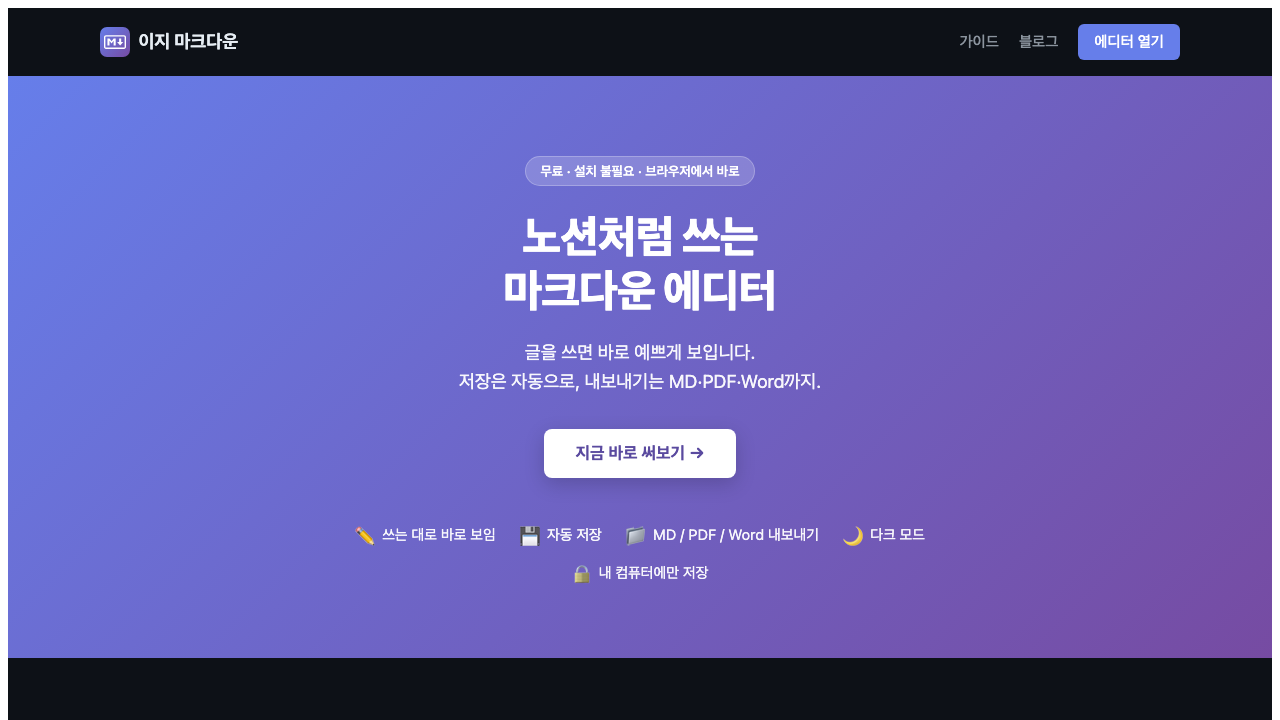
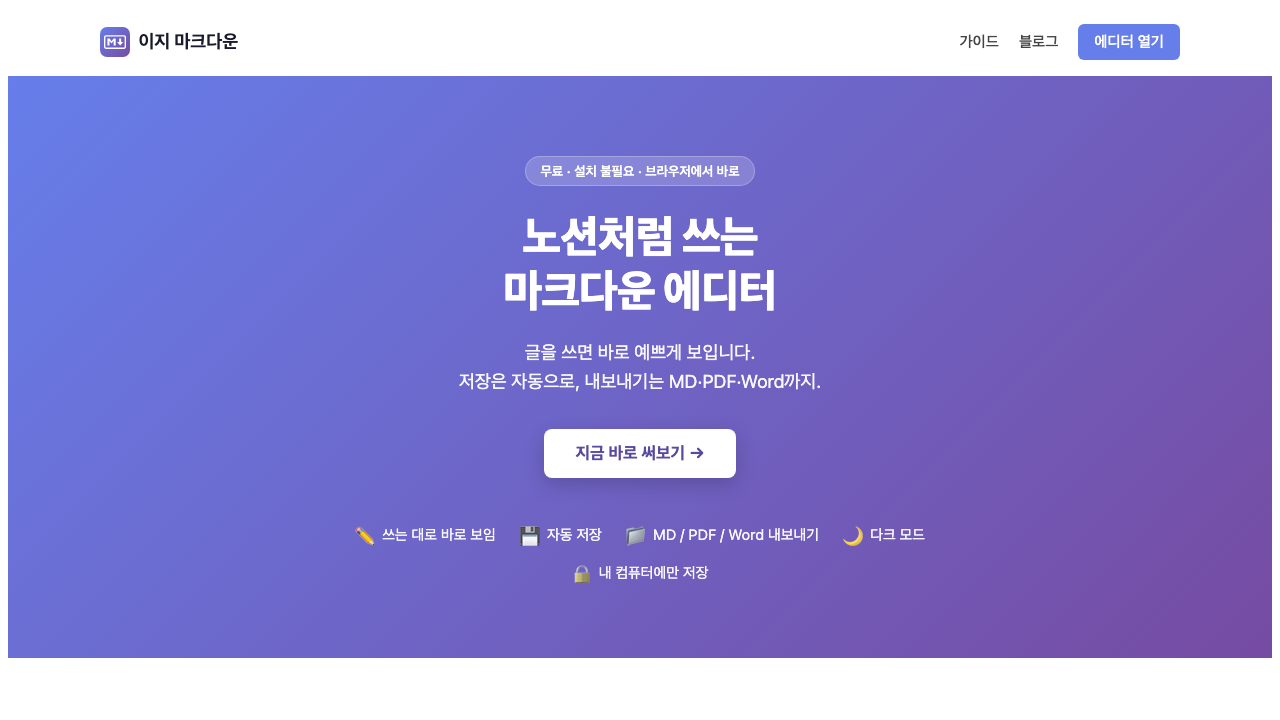
content+assets: real project images, live services, refined About
- Add real screenshots for autotube, ai-saju, stock-terminal; normalize
  filenames to slugs (market-spot->stock-terminal, rabbit-hole jpg->png);
  re-capture icony/easymd in light mode
- automatone and Rabbit Hole are live now: mark live + real URLs
  (automatone.win, rabbit-hole-games.com); unify automatone's copy voice
- Rewrite About into a connected storyline; drop the "better than a good
  model" framing for "AI that actually gets used in the field"
- Widen About so short KO sentences don't wrap unnecessarily

Changed region(s): [[0.0, 0.0, 1.0, 0.1222], [0.0, 0.9167, 1.0, 1.0]]

diff --git a/assets/js/i18n.js b/assets/js/i18n.js
@@ -11,9 +11,9 @@ export const dict = {
     about: {
       title: '소개',
       intro: [
-        '좋은 모델을 만드는 것보다, 그 모델이 현장에서 실제로 쓰이게 만드는 일을 더 중요하게 생각합니다.',
-        '공공, 방송, 의료를 비롯한 여러 도메인에 AI를 도입하며 기획부터 배포와 운영까지 이끌어 왔습니다.',
-        '궁금한 기술은 직접 만들어 검증하고, 그 과정에서 온전히 제 것으로 만듭니다.'
+        '제가 가장 좋아하는 일은, 현장에서 진짜로 쓰이는 AI를 만드는 것입니다.',
+        '그래서 공공, 방송, 의료 등 여러 도메인에서 기획부터 배포와 운영까지 직접 맡아 왔습니다.',
+        '새로운 기술이 나오면 회사 밖에서도 직접 만들어 보며, 그렇게 제 것으로 만듭니다.'
       ]
     },
     focus: {
@@ -35,10 +35,10 @@ export const dict = {
         { slug: 'icony', name: 'icony', tagline: '아이콘을 쉽게 찾고 꾸미는 웹앱', summary: '여러 라이브러리의 아이콘을 한곳에서 찾아 색과 크기를 바꿔 내려받을 수 있습니다.', tags: ['Next.js', 'TypeScript'], status: 'live', url: 'https://iconyapp.com' },
         { slug: 'easymd', name: 'EasyMD', tagline: '노션처럼 쓰는 마크다운 에디터', summary: '입력하는 대로 바로 서식이 보이고, 모든 글은 내 브라우저에만 저장됩니다.', tags: ['SvelteKit', 'Tiptap'], status: 'live', url: 'https://easy-md.com' },
         { slug: 'autotube', name: 'autotube', tagline: '유튜브 쇼츠를 자동으로 편집', summary: '긴 영상을 올리면 하이라이트를 찾아 자막과 음악까지 입혀 짧은 영상으로 만들어 줍니다.', tags: ['Whisper', 'MusicGen', 'Remotion'], status: 'dev', url: '' },
-        { slug: 'automatone', name: 'automatone', tagline: 'AI가 쓰고 사람이 검토하는 기술 블로그', summary: '트렌드를 분석해 AI가 초안을 쓰고, 검토를 거쳐 자동으로 발행하는 블로그 파이프라인.', tags: ['n8n', 'Claude', 'Next.js'], status: 'dev', url: '' },
+        { slug: 'automatone', name: 'automatone', tagline: 'AI가 쓰고 사람이 검토하는 기술 블로그', summary: '트렌드를 분석해 AI가 초안을 쓰고, 사람이 검토해 자동으로 발행하는 기술 블로그입니다.', tags: ['n8n', 'Claude', 'Next.js'], status: 'live', url: 'https://automatone.win' },
         { slug: 'jeung', name: '제웅 (Jeung)', tagline: '직접 만든 1인칭 호러 게임', summary: '1990년대 한국 아파트를 배경으로, 모든 그래픽과 소리를 코드로 만들어 낸 슬로우번 호러입니다.', tags: ['Three.js', '절차적 생성'], status: 'dev', url: '' },
         { slug: 'ai-saju', name: 'ai-saju', tagline: '사주를 풀어 주는 AI', summary: '생년월일을 넣으면 사주를 계산하고, 로컬 LLM이 그 의미를 자연스러운 말로 풀어 줍니다.', tags: ['LLM', 'Ollama'], status: 'dev', url: '' },
-        { slug: 'rabbit-hole', name: 'Rabbit Hole', tagline: '토끼굴을 달리는 3D 게임', summary: '터널 벽을 따라 달리며 당근을 모으는 브라우저 3D 게임입니다.', tags: ['Three.js', 'R3F'], status: 'dev', url: 'https://rabbit-hole.vercel.app' },
+        { slug: 'rabbit-hole', name: 'Rabbit Hole', tagline: '토끼굴을 달리는 3D 게임', summary: '터널 벽을 따라 달리며 당근을 모으는 브라우저 3D 게임입니다.', tags: ['Three.js', 'R3F'], status: 'live', url: 'https://rabbit-hole-games.com' },
         { slug: 'stock-terminal', name: 'MarketSpot', tagline: '패닉 셀을 막아 주는 투자 동반자', summary: '급락장에서 지금이 정상인지 알려 주고, 차분하게 버티도록 돕는 대시보드입니다.', tags: ['LLM', 'FastAPI'], status: 'dev', url: '' }
       ]
     },
@@ -105,9 +105,9 @@ export const dict = {
     about: {
       title: 'About',
       intro: [
-        'I care less about building a good model than about getting it genuinely used in the real world.',
-        "I've introduced AI across the public, broadcasting, and medical sectors, leading everything from planning to deployment and operations.",
-        'When a technology intrigues me, I build it to understand it, and make it fully my own in the process.'
+        'What I enjoy most is building AI that actually gets used in the real world.',
+        "So I've taken projects end to end across the public, broadcasting, and medical sectors, from planning to deployment and operations.",
+        'And when a new technology appears, I build with it outside work too, and that is how I make it my own.'
       ]
     },
     focus: {
@@ -129,10 +129,10 @@ export const dict = {
         { slug: 'icony', name: 'icony', tagline: 'Find and customize icons, fast', summary: 'Search icons from many libraries in one place, then recolor, resize, and download them.', tags: ['Next.js', 'TypeScript'], status: 'live', url: 'https://iconyapp.com' },
         { slug: 'easymd', name: 'EasyMD', tagline: 'A markdown editor that feels like Notion', summary: 'Formatting appears as you type, and everything stays saved in your own browser.', tags: ['SvelteKit', 'Tiptap'], status: 'live', url: 'https://easy-md.com' },
         { slug: 'autotube', name: 'autotube', tagline: 'Auto-editing for YouTube Shorts', summary: 'Drop in a long video and it finds the highlights, then adds captions and music to make a short.', tags: ['Whisper', 'MusicGen', 'Remotion'], status: 'dev', url: '' },
-        { slug: 'automatone', name: 'automatone', tagline: 'A tech blog written by AI, reviewed by me', summary: 'A pipeline where AI drafts posts from trending topics, and they publish after a human review.', tags: ['n8n', 'Claude', 'Next.js'], status: 'dev', url: '' },
+        { slug: 'automatone', name: 'automatone', tagline: 'A tech blog written by AI, reviewed by me', summary: 'A tech blog where AI drafts posts from trending topics and publishes them after a human review.', tags: ['n8n', 'Claude', 'Next.js'], status: 'live', url: 'https://automatone.win' },
         { slug: 'jeung', name: 'Jeung (제웅)', tagline: 'A first-person horror game I built', summary: 'A slow-burn horror in a 1990s Korean apartment, with every visual and sound generated in code.', tags: ['Three.js', 'Procedural'], status: 'dev', url: '' },
         { slug: 'ai-saju', name: 'ai-saju', tagline: 'AI that reads your saju', summary: 'Enter your birth date and a local LLM explains your Korean fortune chart in plain language.', tags: ['LLM', 'Ollama'], status: 'dev', url: '' },
-        { slug: 'rabbit-hole', name: 'Rabbit Hole', tagline: 'A 3D game down a rabbit hole', summary: 'A browser 3D game where you run along a tunnel wall collecting carrots.', tags: ['Three.js', 'R3F'], status: 'dev', url: 'https://rabbit-hole.vercel.app' },
+        { slug: 'rabbit-hole', name: 'Rabbit Hole', tagline: 'A 3D game down a rabbit hole', summary: 'A browser 3D game where you run along a tunnel wall collecting carrots.', tags: ['Three.js', 'R3F'], status: 'live', url: 'https://rabbit-hole-games.com' },
         { slug: 'stock-terminal', name: 'MarketSpot', tagline: 'An investing companion against panic-selling', summary: 'On a scary down day it tells you whether things are still normal and helps you hold steady.', tags: ['LLM', 'FastAPI'], status: 'dev', url: '' }
       ]
     },
@@ -199,7 +199,7 @@ function getByPath(obj, path) {
   return path.split('.').reduce((o, k) => (o == null ? o : o[k]), obj);
 }
 
-const HAS_IMG = new Set(['icony', 'easymd', 'jeung', 'rabbit-hole']);
+const HAS_IMG = new Set(['icony', 'easymd', 'jeung', 'rabbit-hole', 'autotube', 'ai-saju', 'stock-terminal']);
 
 function wireMediaFallback() {
   document.querySelectorAll('.card-media img').forEach((img) => {

diff --git a/assets/css/style.css b/assets/css/style.css
@@ -139,7 +139,7 @@ main { counter-reset: sec; }
 .scroll-cue:hover { color: var(--ink-soft); }
 
 /* about */
-.about-intro { max-width: 760px; }
+.about-intro { max-width: 960px; }
 .about-intro p { font-size: clamp(1.1rem, 1.8vw, 1.32rem); line-height: 1.65; color: var(--ink); letter-spacing: -0.015em; }
 .about-intro p + p { margin-top: 14px; }
 